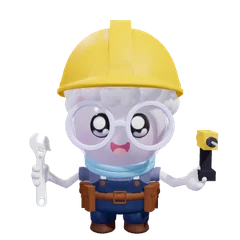
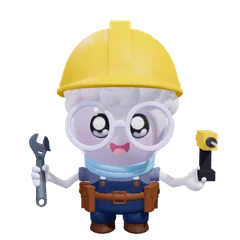
Darken the Engineer's wrench and separate the Scholar's vest from the gown
- The delivered wrench was plain white and disappeared against the white
  glove and background; it is now brushed steel.
- The Scholar gown's nested layers are colored by connected piece: a black
  gown over a slate vest with gold buttons, a white shirt and a gold tie.

diff --git a/frontend/src/components/mascot/mascotModel.js b/frontend/src/components/mascot/mascotModel.js
@@ -1513,28 +1513,95 @@ export const adjustOutfitGear = (model, gear) => {
   });
 };
 
-// A garment delivered as one plain white material (the Scholar gown, cap and
-// tassel) is painted in its approved colors with vertex colors:
-// `regionColors: { color, regions: [{ color, min: [x, y, z], max: [x, y, z] }] }`
-// in the prepared model's coordinates. The first matching region wins.
+// A garment delivered as one plain white material (the Scholar gown, vest,
+// shirt, tie, cap and tassel) is painted in its approved colors with vertex
+// colors, in the prepared model's coordinates:
+// `regionColors: {
+//   color,
+//   regions: [{ color, min, max }],     // per vertex: the point is inside
+//   components: [{ color, min, max }],  // per connected piece: all of it is inside
+// }`
+// Regions are checked first, then pieces; the first match wins. Pieces tell
+// nested layers apart (a vest inside a gown) where a box around points cannot.
+const boxRule = (rule) => ({
+  color: new THREE.Color(rule.color),
+  box: new THREE.Box3(new THREE.Vector3(...rule.min), new THREE.Vector3(...rule.max)),
+});
+
+// Connected pieces of a mesh, welding vertices that share a position (loaders
+// often split vertices along UV and normal seams). Returns each vertex's piece
+// and each piece's bounds in model space.
+const getMeshPieces = (geometry, matrix) => {
+  const positions = geometry.getAttribute('position');
+  const indices = geometry.getIndex();
+  const { count } = positions;
+  const point = new THREE.Vector3();
+  const welded = new Map();
+  const parent = new Int32Array(count);
+  const weld = new Int32Array(count);
+  for (let index = 0; index < count; index += 1) {
+    point.fromBufferAttribute(positions, index);
+    const key = `${point.x.toFixed(4)},${point.y.toFixed(4)},${point.z.toFixed(4)}`;
+    if (!welded.has(key)) welded.set(key, index);
+    weld[index] = welded.get(key);
+    parent[index] = index;
+  }
+  const find = (value) => {
+    let root = value;
+    while (parent[root] !== root) {
+      parent[root] = parent[parent[root]];
+      root = parent[root];
+    }
+    return root;
+  };
+  const join = (a, b) => {
+    const rootA = find(weld[a]);
+    const rootB = find(weld[b]);
+    if (rootA !== rootB) parent[rootA] = rootB;
+  };
+  const corners = indices ? indices.count : count;
+  for (let corner = 0; corner + 2 < corners; corner += 3) {
+    const a = indices ? indices.getX(corner) : corner;
+    const b = indices ? indices.getX(corner + 1) : corner + 1;
+    const c = indices ? indices.getX(corner + 2) : corner + 2;
+    join(a, b);
+    join(b, c);
+  }
+  const piece = new Int32Array(count);
+  const bounds = new Map();
+  for (let index = 0; index < count; index += 1) {
+    const root = find(weld[index]);
+    piece[index] = root;
+    if (!bounds.has(root)) bounds.set(root, new THREE.Box3());
+    bounds.get(root).expandByPoint(point.fromBufferAttribute(positions, index).applyMatrix4(matrix));
+  }
+  return { piece, bounds };
+};
+
 export const applyRegionColors = (model, regionColors) => {
   if (!regionColors) return;
   model.updateMatrixWorld(true);
   const toModel = new THREE.Matrix4().copy(model.matrixWorld).invert();
   const base = new THREE.Color(regionColors.color);
-  const regions = (regionColors.regions || []).map((region) => ({
-    color: new THREE.Color(region.color),
-    box: new THREE.Box3(new THREE.Vector3(...region.min), new THREE.Vector3(...region.max)),
-  }));
+  const regions = (regionColors.regions || []).map(boxRule);
+  const pieceRules = (regionColors.components || []).map(boxRule);
   const point = new THREE.Vector3();
   model.traverse((node) => {
     if (!node.isMesh || !node.geometry?.getAttribute('position')) return;
     const positions = node.geometry.getAttribute('position');
     const matrix = new THREE.Matrix4().multiplyMatrices(toModel, node.matrixWorld);
+    const pieces = pieceRules.length ? getMeshPieces(node.geometry, matrix) : null;
+    const pieceColors = new Map();
+    pieces?.bounds.forEach((box, root) => {
+      const rule = pieceRules.find((candidate) => candidate.box.containsBox(box));
+      if (rule) pieceColors.set(root, rule.color);
+    });
     const colors = new Float32Array(positions.count * 3);
     for (let index = 0; index < positions.count; index += 1) {
       point.fromBufferAttribute(positions, index).applyMatrix4(matrix);
-      const color = regions.find((region) => region.box.containsPoint(point))?.color || base;
+      const color = regions.find((region) => region.box.containsPoint(point))?.color
+        || (pieces && pieceColors.get(pieces.piece[index]))
+        || base;
       colors.set([color.r, color.g, color.b], index * 3);
     }
     node.geometry.setAttribute('color', new THREE.BufferAttribute(colors, 3));

diff --git a/frontend/src/components/mascot/mascotCatalog.js b/frontend/src/components/mascot/mascotCatalog.js
@@ -134,11 +134,23 @@ export const OUTFITS = [
     // The supplied gown, cap and tassel share one plain white material. Paint
     // them as in the approved Scholar render: a black gown and cap with a gold
     // tassel (cord and tuft hang at x≈-43, its button tops the cap).
+    // The gown is three nested torso layers; the inner two get their own
+    // colors so the vest reads as a separate layer under the open gown.
     regionColors: {
       color: '#26262e',
       regions: [
         { color: '#d8a31f', min: [-47, 38, 0.5], max: [-38.5, 60, 9.5] },
         { color: '#d8a31f', min: [-43.5, 88.5, 2.5], max: [-39.2, 93, 6.8] },
+      ],
+      components: [
+        // Tie: the narrow strip down the front.
+        { color: '#d8a31f', min: [-4.2, 6.5, 15.5], max: [4.2, 21, 18.5] },
+        // Buttons down the vest front.
+        { color: '#b98a1c', min: [-0.6, -2.5, 18], max: [0.6, 13, 19.4] },
+        // Shirt: the innermost torso layer.
+        { color: '#f1f0f6', min: [-22.6, -4.8, -17.8], max: [22.6, 25.4, 17.8] },
+        // Vest: the middle layer, between shirt and gown.
+        { color: '#555b6b', min: [-23.8, -5.6, -18.8], max: [23.8, 26, 20.3] },
       ],
     },
     cuffOverlap: 3.4, handOffsetY: 3.49,

diff --git a/frontend/public/mascot/README.md b/frontend/public/mascot/README.md
@@ -88,6 +88,11 @@ Follow-ups (later on 2026-09-16):
   that z-fought into speckles. `tmp/build-wizard-book.mjs` replaces them in
   `poses/wizard.glb` with a clean open book (`spell_book`), held still
   (`hold.fixed`) with the palm under its spine.
+- **Engineer wrench**: the delivered wrench material is plain white and vanished
+  against the glove; `build-design-mascots.mjs engineer` makes it brushed steel.
+- **Scholar layers**: `regionColors.components` colors whole connected pieces
+  by bounds, so the gown's nested layers separate: black gown, slate vest with
+  gold buttons, white shirt and a gold tie.
 - **Jacket sides**: beside the torso only vertices above the armpit follow the
   arm (`ARM_FRAME.torsoX` / `armpitY`), so bulky jackets (Fashion, Cozy) no
   longer open a gap at the hip when the arms bend.
